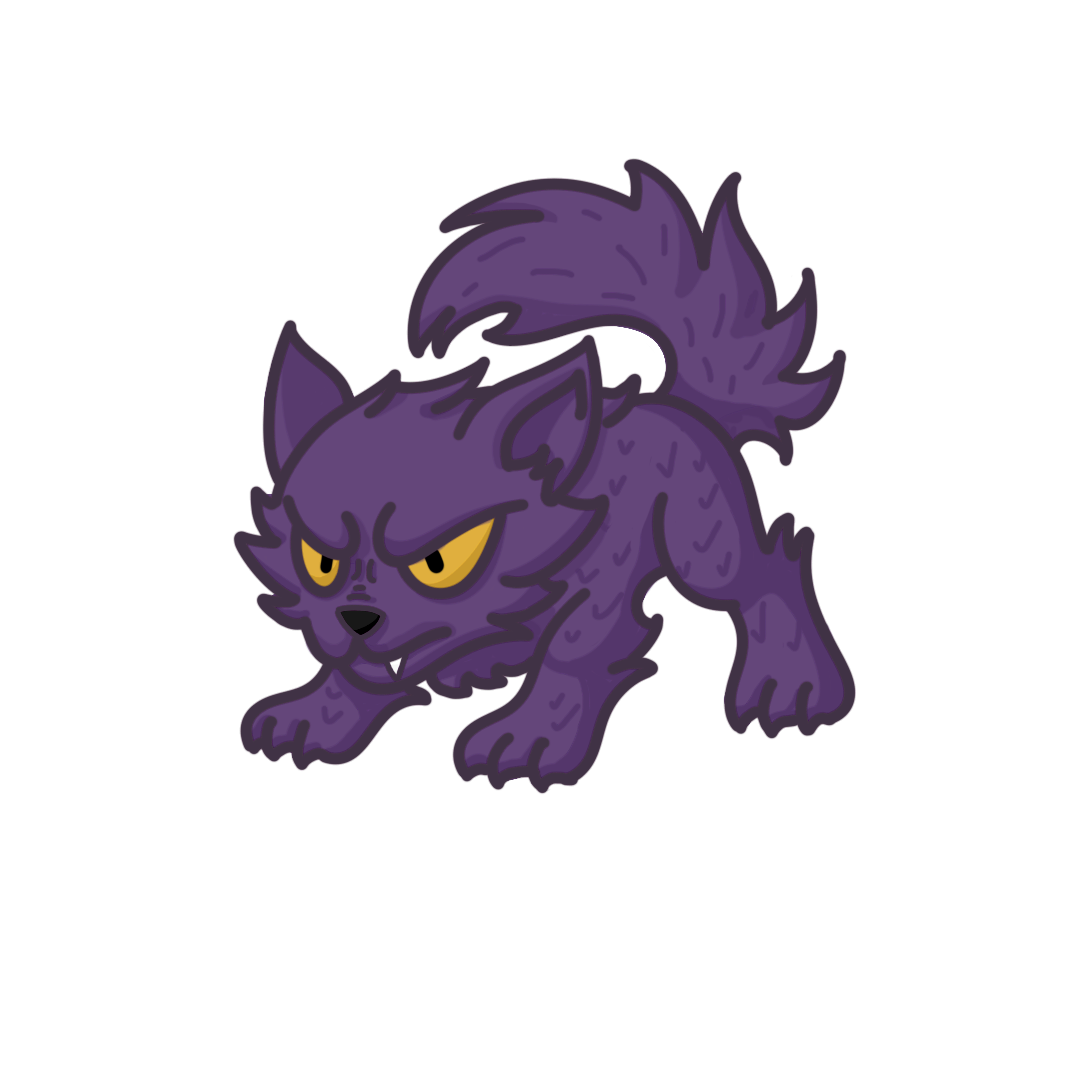
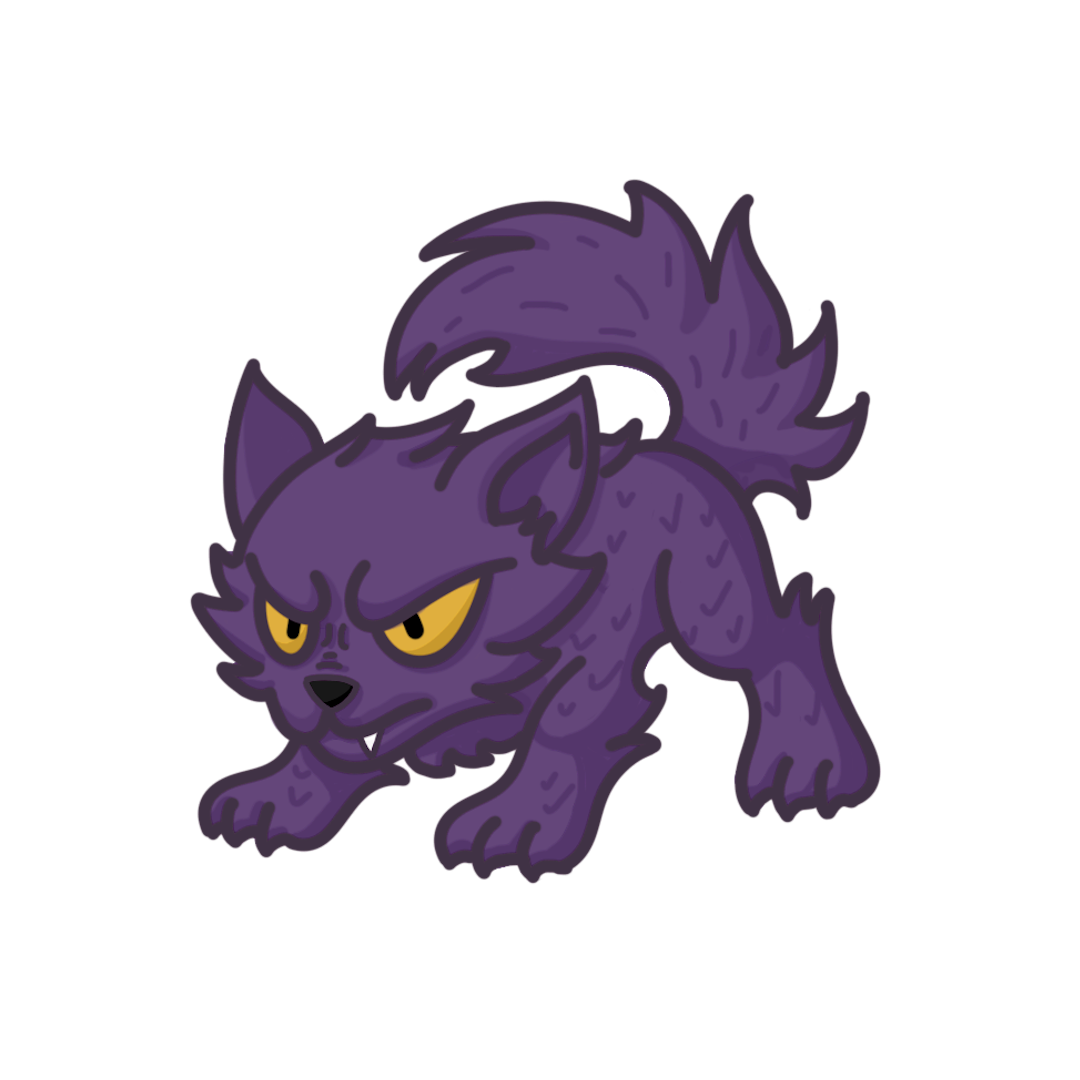
1002: Edit monster size and shadow size - Also changed background image to a simple green :D

Changed region(s): [[0.1528, 0.1222, 0.825, 0.825]]

diff --git a/client/src/pages/Game/DiceRollModal.tsx b/client/src/pages/Game/DiceRollModal.tsx
@@ -49,7 +49,7 @@ const DiceRollModal: React.FC<DiceRollModalProps> = ({show, onClose, toRoll, bat
     }
 
     return (
-      <div className="dice-modal-overlay">
+      <div className="dice-modal-overlay border-[4px] border-blackCurrant border-b-0">
         <div className="dice-modal-content">
           <h5 className="dice-result-text font-bold">
             ENEMY AC: {enemyMonsterAC} <br />

diff --git a/client/src/components/player-screen/BattleMonsterPanel.css b/client/src/components/player-screen/BattleMonsterPanel.css
@@ -39,11 +39,11 @@
 }
 
 .monster-shadow {
-  width: 160px;
+  width: 180px;
   height: 20px;
   background: rgba(0,0,0,0.50);
   border-radius: 50%;
   filter: blur(1.5px);
-  margin-top: -50px;
+  margin-top: -60px;
   margin-bottom: 8px;     /* Space below shadow */
 }

diff --git a/client/src/pages/Game/Battle.css b/client/src/pages/Game/Battle.css
@@ -7,7 +7,7 @@
   border-radius: 16px;
   overflow: hidden;
   position: relative;
-  background-image: url('/assets/backgrounds/WOODLANDS.png');
+  background-image: url('/assets/backgrounds/DEFAULT_GREEN.png');
   background-size: cover;
 }
 
